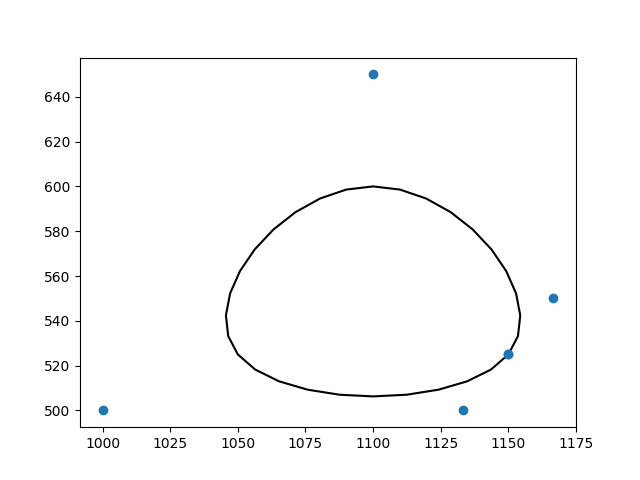
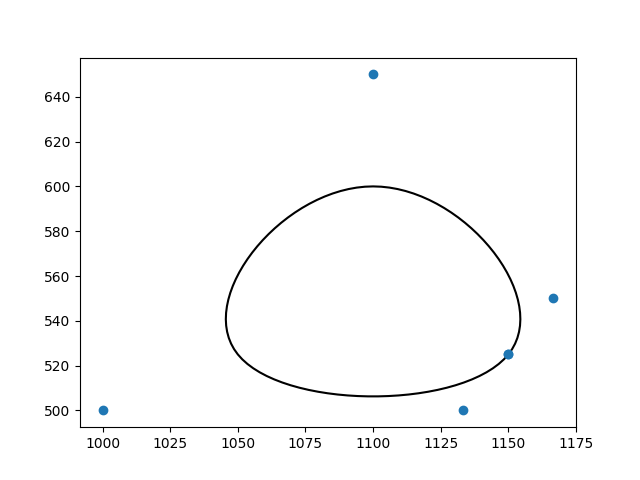
Python Spline arange -> linspace

diff --git a/python/spline.html b/python/spline.html
@@ -113,6 +113,8 @@ N_{i,m}(t)&=&\frac{t-t_i}{t_{i+m-1}-t_i}N_{i,m-1}(t)+\frac{t_{i+m}-t}{t_{i+m}-t_
 
 <h3>最初のプログラム</h3>
 <p>以上のことを考慮して作成したPythonプログラム spline.py が以下の通り．参考URLは<a href="http://maicommon.ciao.jp/ss/Jalgo/Bspline/index.htm" target="_blank">http://maicommon.ciao.jp/ss/Jalgo/Bspline/index.htm</a></p>
+<br>
+$t$はノットベクトルの最小値と最大値の間を100分割しました．曲線の滑らかさに関わります．
 <pre class="look"><code>
 import numpy as np
 
@@ -137,11 +139,12 @@ def baseN(i, m, t, nv):
 
 lqx, lqy = np.loadtxt("q.txt", unpack=True)
 nv = np.loadtxt("nv.txt")
+tmin = min(nv)
 tmax = max(nv)
 
 px = []
 py = []
-for t in np.arange(0, tmax+0.1, 0.1):
+for t in np.linspace(tmin, tmax, 100):
     i = 0
     x = 0
     y = 0
@@ -274,11 +277,12 @@ def baseN(i, m, t, nv):
 
 lqx, lqy<strong class="color1">, lw</strong> = np.loadtxt("q3.txt", unpack=True)
 nv = np.loadtxt("nv3.txt")
+tmin = min(nv)
 tmax = max(nv)
 
 px = []
 py = []
-for t in np.arange(0, tmax+0.1, 0.1):
+for t in np.linspace(tmin, tmax, 100):
     i = 0
     x = 0
     y = 0
@@ -375,7 +379,7 @@ for x, y in zip(px, py):
 1.0
 
 </code></pre>
-<p>これもとくに問題なさそうですが，少しルートが荒いのが気になります．</p>
+<p>これもとくに問題なさそうです．</p>
 <figure class="c">
 <img src="scripts/spline5.png">
 </figure><br>
